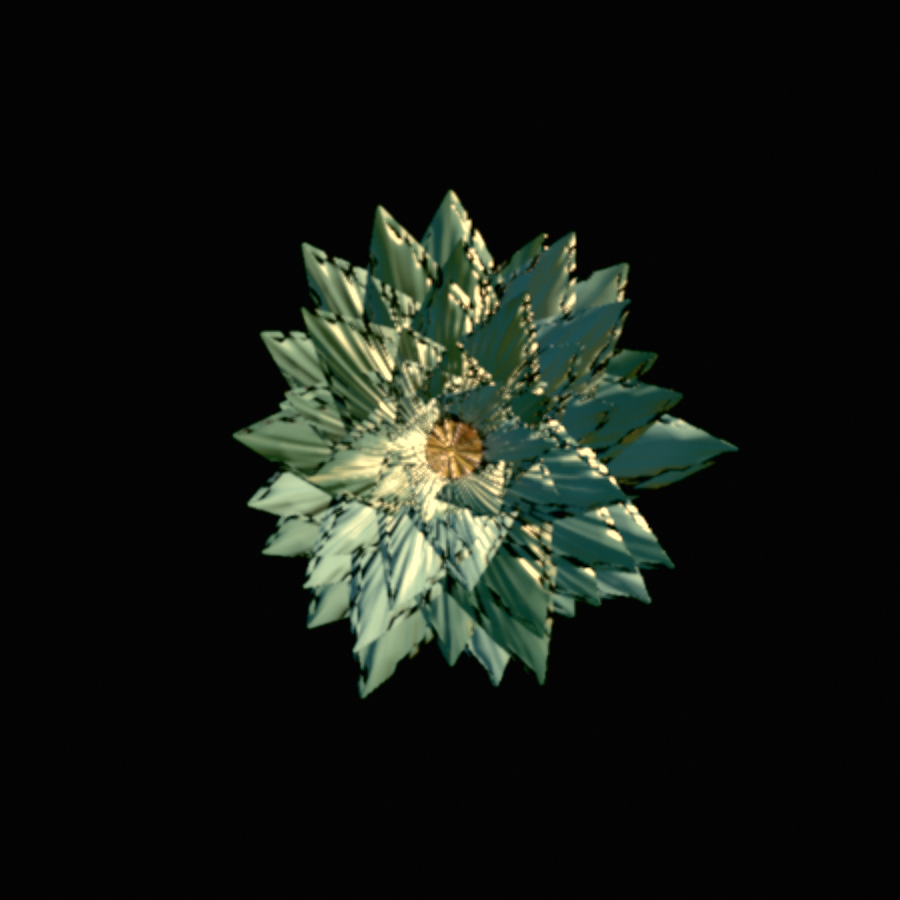
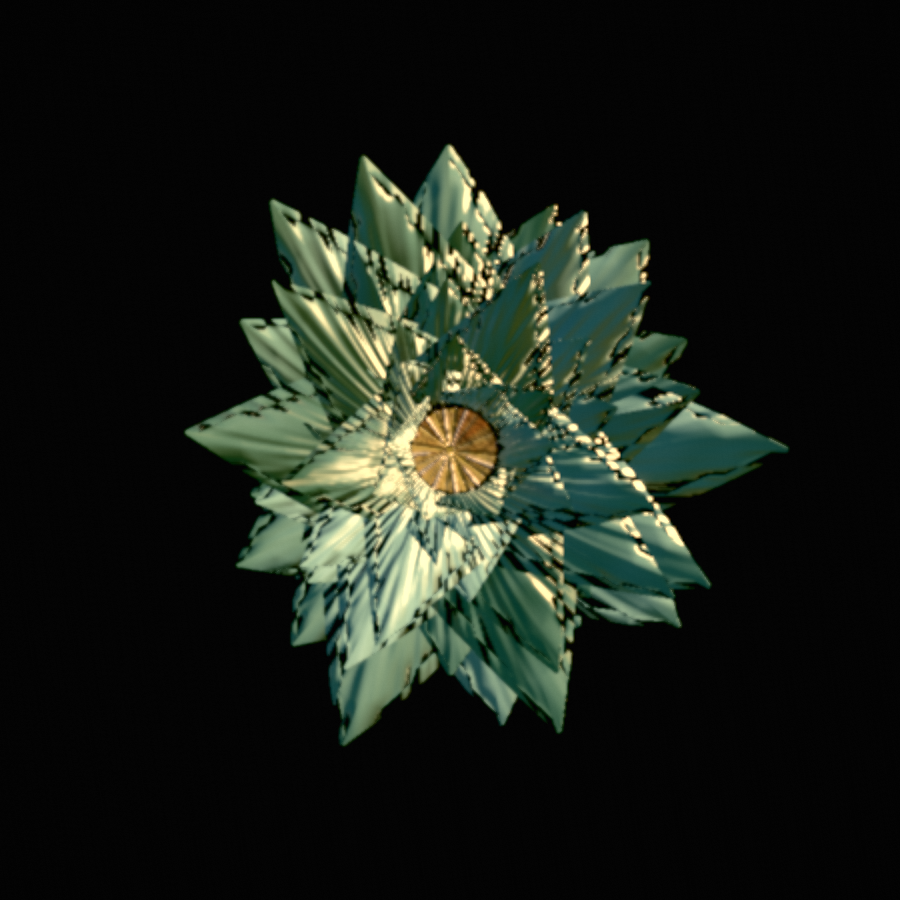
r48e: crown geometry G2 (player's pick) — outer whorl splayed lower and broader, tight upright bud, length strays; hub 50% wider with basal leaflets
Outer whorl droop +0.35 / kick +0.10, outer two whorls 15% broader;
inner bud beta 0.03 / droop 0.15; jitLen 0.25 everywhere. Player: the
base is still too tight and the reference shows small leaves poking out
right at the crown base — rootR 0.24 → 0.36 and a sixth whorl of 22
short wide leaflets (len 0.42, beta 1.05) splayed low around the hub.
drawprobe/fruitviews/blissprobe/pointerprobe clean.

Changed region(s): [[0.1867, 0.1556, 0.8711, 0.84]]

diff --git a/src/fruit/geometry.js b/src/fruit/geometry.js
@@ -2025,12 +2025,13 @@ export const SHAPE_VARIANTS = {
         // under the blades. The body crown is deleted.
         crown: null,
         leaves: {
-          rootR: 0.24, rootLift: 0.03,
+          rootR: 0.36, rootLift: 0.03,
           whorls: [
-            { n: 12, beta: 0.06, len: 2.170, width: 0.51, thick: 0.06, droop: 0.22, kick: 0.05, cup: 0.45, jitPhi: 0.1, jitBeta: 0.05, jitLen: 0.1 },
-            { n: 14, beta: 0.18, len: 2.450, width: 0.6, thick: 0.06, droop: 0.42, kick: 0.12, cup: 0.45, phase: 0.5, jitPhi: 0.1, jitBeta: 0.08, jitLen: 0.12 },
-            { n: 16, beta: 0.34, len: 2.310, width: 0.63, thick: 0.06, droop: 0.62, kick: 0.22, cup: 0.45, phase: 0.25, jitPhi: 0.1, jitBeta: 0.1, jitLen: 0.12 },
-            { n: 16, beta: 0.55, len: 1.820, width: 0.63, thick: 0.06, droop: 0.85, kick: 0.3, cup: 0.45, phase: 0.75, jitPhi: 0.12, jitBeta: 0.12, jitLen: 0.14 },
+            { n: 12, beta: 0.03, len: 2.17, width: 0.51, thick: 0.06, droop: 0.15, kick: 0.03, cup: 0.45, jitPhi: 0.1, jitBeta: 0.05, jitLen: 0.25 },
+            { n: 14, beta: 0.18, len: 2.45, width: 0.6, thick: 0.06, droop: 0.42, kick: 0.12, cup: 0.45, phase: 0.5, jitPhi: 0.1, jitBeta: 0.08, jitLen: 0.25 },
+            { n: 16, beta: 0.34, len: 2.31, width: 0.724, thick: 0.06, droop: 0.62, kick: 0.22, cup: 0.45, phase: 0.25, jitPhi: 0.1, jitBeta: 0.1, jitLen: 0.25 },
+            { n: 16, beta: 0.55, len: 1.82, width: 0.724, thick: 0.06, droop: 1.2, kick: 0.4, cup: 0.45, phase: 0.75, jitPhi: 0.12, jitBeta: 0.12, jitLen: 0.25 },
+            { n: 22, beta: 1.05, len: 0.42, width: 0.34, thick: 0.06, droop: 0.45, kick: 0.15, cup: 0.35, phase: 0.35, jitPhi: 0.14, jitBeta: 0.18, jitLen: 0.3 },
           ],
         },
       },
